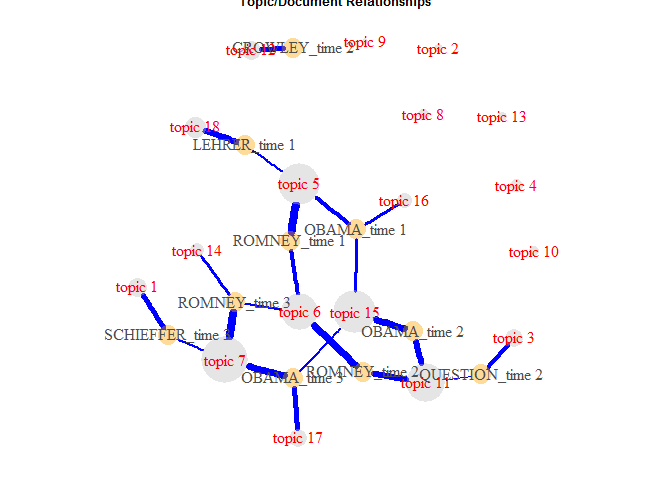
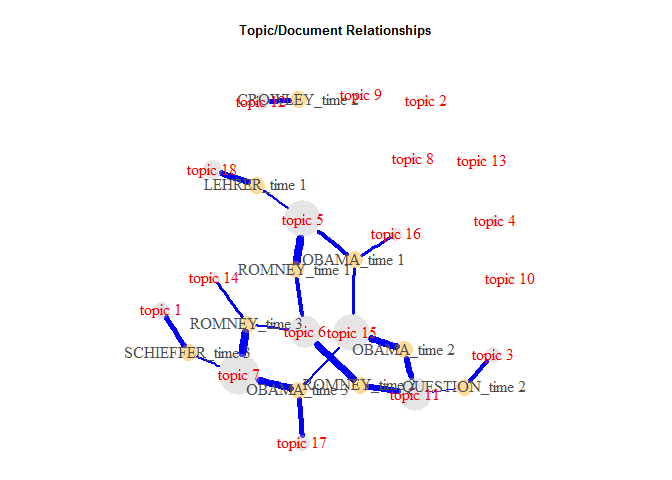
updated

diff --git a/README.md b/README.md
@@ -385,21 +385,23 @@ The .R script for this demonstration can be downloaded from
 ### Determine Optimal Number of Topics
 
 The plot below shows the harmonic mean of the log likelihoods against k
-(number of topics). It appears the optimal number of topics is ~k = 13.
+(number of topics).
 
     k <- optimal_k(doc_term_mat, burnin = burnin, iter = iter, keep = keep)
 
     ## 
     ## Grab a cup of coffee this could take a while...
 
-    ## 10 of 30 iterations (Current: 11:21:01; Elapsed: .3 mins)
-    ## 20 of 30 iterations (Current: 11:21:51; Elapsed: 1.1 mins; Remaining: ~1.4 mins)
-    ## 30 of 30 iterations (Current: 11:23:13; Elapsed: 2.4 mins; Remaining: ~0 mins)
+    ## 10 of 30 iterations (Current: 11:59:45; Elapsed: .3 mins)
+    ## 20 of 30 iterations (Current: 12:00:37; Elapsed: 1.1 mins; Remaining: ~1.4 mins)
+    ## 30 of 30 iterations (Current: 12:01:57; Elapsed: 2.4 mins; Remaining: ~0 mins)
     ## Optimal number of topics = 18
 
     k
 
 ![](inst/figure/unnamed-chunk-6-1.png)
+
+It appears the optimal number of topics is ~k = 18.
 
 ### Run the Model
 
@@ -451,7 +453,7 @@ The plot below shows the harmonic mean of the log likelihoods against k
     V(graph)$label.color <- "grey30"
     V(graph)$size <- colSums(post[["topics"]]) * 20
 
-    par(mar=c(0, 0, 3,0))
+    par(mar=c(0, 0, 3, 0))
     set.seed(110)
     plot.igraph(graph, edge.width = E(graph)$edge.width, 
         vertex.color = adjustcolor("black", alpha.f = .2))
@@ -475,7 +477,7 @@ The plot below shows the harmonic mean of the log likelihoods against k
     V(graph)$size <- c(rep(10, nrow(topic_mat)), colSums(topic_mat) * 20)
     V(graph)$label.color <- ifelse(grepl("^\\d+$", V(graph)$name), "red", "grey30")
 
-    par(mar=c(0, 0, 0,0))
+    par(mar=c(0, 0, 3, 0))
     set.seed(119)
     plot.igraph(graph, edge.width = E(graph)$edge.width, 
         vertex.color = adjustcolor(V(graph)$color, alpha.f = .4))
